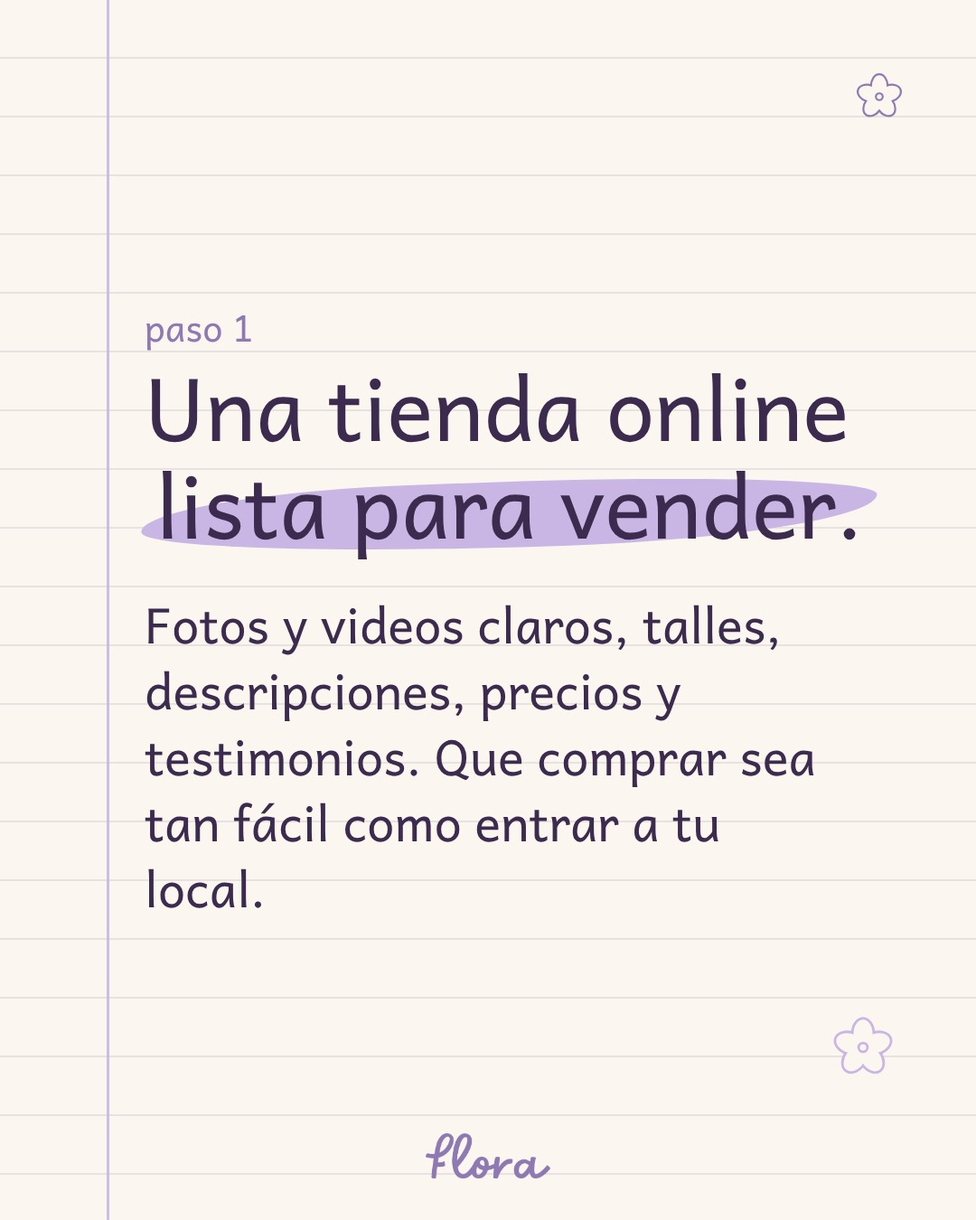
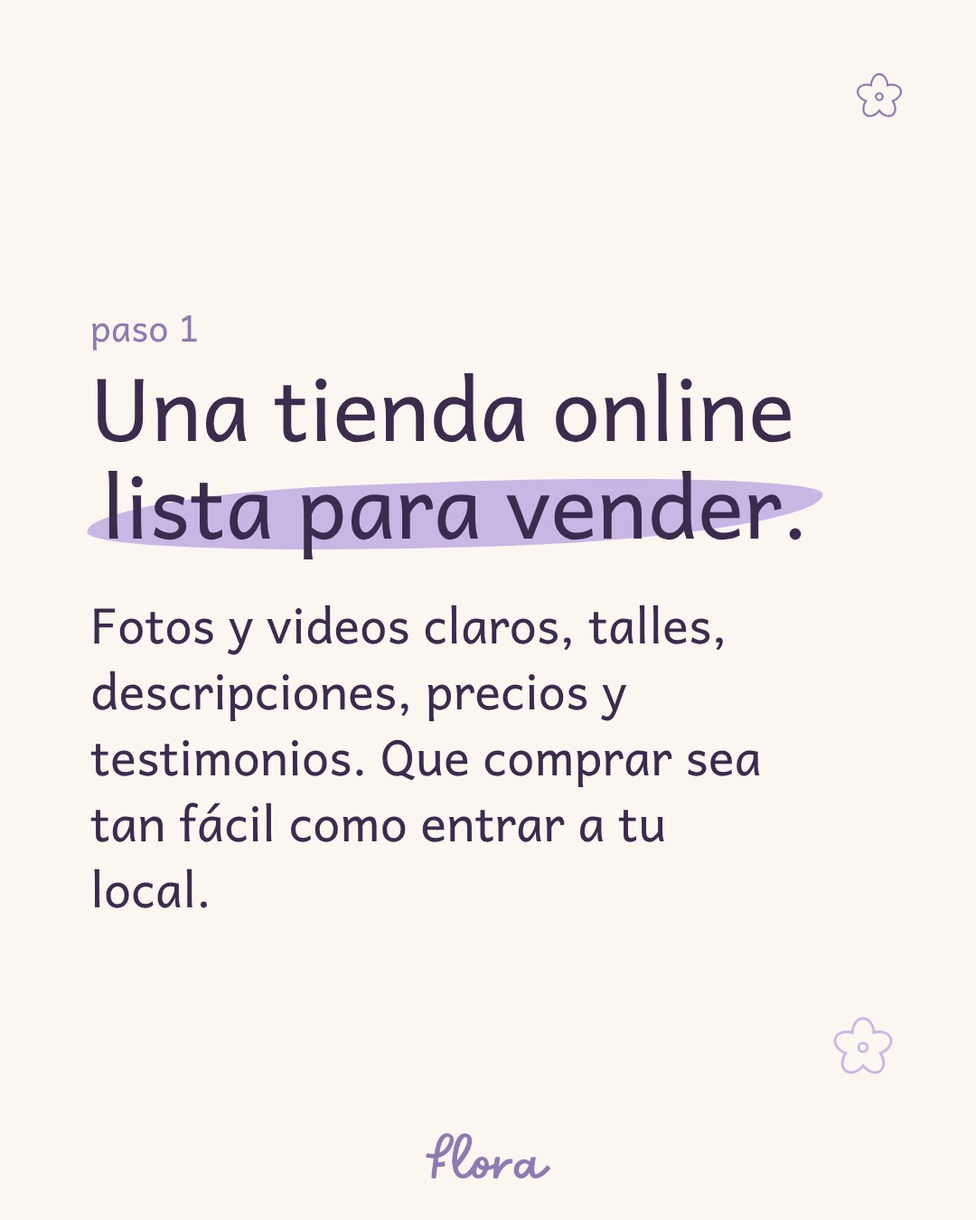
Carrusel expandir: fondo liso y placa 7 actualizada
Claude-Session: https://claude.ai/code/session_011cR66XdfPcXMXiUSVAJZ7n

Changed region(s): [[0.0917, 0.4978, 0.825, 0.7467], [0.0917, 0.2489, 0.8861, 0.4667]]

diff --git a/contenido/c03-expandir/slide-7.html b/contenido/c03-expandir/slide-7.html
@@ -1,9 +1,9 @@
-<!doctype html><html><head><meta charset="utf-8"><link href="https://fonts.googleapis.com/css2?family=Andika:wght@400;700&display=swap" rel="stylesheet"><style>*{margin:0;padding:0;box-sizing:border-box}body{width:1080px;height:1350px;overflow:hidden;background-color:#FBF7F0;background-image:linear-gradient(90deg,transparent 118px,rgba(201,182,228,.9) 118px,rgba(201,182,228,.9) 121px,transparent 121px),repeating-linear-gradient(180deg,transparent 0 63px,rgba(61,43,79,.10) 63px 65px);font-family:'Andika';color:#3D2B4F}
-.s{width:1080px;height:1350px;padding:100px 80px 46px 160px;display:flex;flex-direction:column;position:relative}
+<!doctype html><html><head><meta charset="utf-8"><link href="https://fonts.googleapis.com/css2?family=Andika:wght@400;700&display=swap" rel="stylesheet"><style>*{margin:0;padding:0;box-sizing:border-box}body{width:1080px;height:1350px;overflow:hidden;background:#FBF7F0;font-family:'Andika';color:#3D2B4F}
+.s{width:1080px;height:1350px;padding:100px 80px 46px 100px;display:flex;flex-direction:column;position:relative}
 .mk{position:relative;display:inline-block;padding:0 12px;z-index:0}
 .mk:before{content:"";position:absolute;left:-4px;right:-4px;top:28%;bottom:4%;background:#C9B6E4;border-radius:40% 55% 45% 60%/60% 40% 65% 45%;transform:rotate(var(--r));z-index:-1}
 h1{font-weight:400;line-height:1.12} p{font-size:54px;line-height:1.35}
 .k{font-size:40px;color:#8F79B3}
 .av{position:absolute;right:40px;bottom:120px;object-fit:contain;object-position:50% 100%}
-.foot{margin-top:auto;display:flex;justify-content:center;margin-left:-80px}.foot img{height:50px}
-.f{position:absolute;right:80px;top:80px}</style></head><body><div class="s"><div class="f"><svg width="54" height="54" viewBox="0 0 100 100" style="overflow:visible"><g fill="none" stroke="#8F79B3" stroke-width="8"><ellipse cx="50" cy="28" rx="15" ry="22" transform="rotate(0 50 50)"/><ellipse cx="50" cy="28" rx="15" ry="22" transform="rotate(72 50 50)"/><ellipse cx="50" cy="28" rx="15" ry="22" transform="rotate(144 50 50)"/><ellipse cx="50" cy="28" rx="15" ry="22" transform="rotate(216 50 50)"/><ellipse cx="50" cy="28" rx="15" ry="22" transform="rotate(288 50 50)"/></g><g fill="#FBF7F0"><ellipse cx="50" cy="28" rx="15" ry="22" transform="rotate(0 50 50)"/><ellipse cx="50" cy="28" rx="15" ry="22" transform="rotate(72 50 50)"/><ellipse cx="50" cy="28" rx="15" ry="22" transform="rotate(144 50 50)"/><ellipse cx="50" cy="28" rx="15" ry="22" transform="rotate(216 50 50)"/><ellipse cx="50" cy="28" rx="15" ry="22" transform="rotate(288 50 50)"/></g><circle cx="50" cy="50" r="7" fill="none" stroke="#8F79B3" stroke-width="4"/></svg></div><h1 style="font-size:84px;margin-top:30px;max-width:820px">Un local de deportes hizo esto y pasó de</h1><h1 style="font-size:120px;margin-top:20px">3.000 → <span class="mk" style="--r:-3deg">13.000 USD</span></h1><p style="font-size:62px;margin-top:20px">en un mes.</p><img class="av" src="file:///tmp/claude-0/-home-user-florwilhjelm-github-io/5e4f6baa-32bb-5f35-af43-3504e6ba9e43/scratchpad/avatar-dl/avatar-contenta.png" style="width:340px;height:380px"><div class="foot"><img src="flora-palabra-lila.png"></div></div></body></html>
+.foot{margin-top:auto;display:flex;justify-content:center;margin-left:-20px}.foot img{height:50px}
+.f{position:absolute;right:80px;top:80px}</style></head><body><div class="s"><div class="f"><svg width="54" height="54" viewBox="0 0 100 100" style="overflow:visible"><g fill="none" stroke="#8F79B3" stroke-width="8"><ellipse cx="50" cy="28" rx="15" ry="22" transform="rotate(0 50 50)"/><ellipse cx="50" cy="28" rx="15" ry="22" transform="rotate(72 50 50)"/><ellipse cx="50" cy="28" rx="15" ry="22" transform="rotate(144 50 50)"/><ellipse cx="50" cy="28" rx="15" ry="22" transform="rotate(216 50 50)"/><ellipse cx="50" cy="28" rx="15" ry="22" transform="rotate(288 50 50)"/></g><g fill="#FBF7F0"><ellipse cx="50" cy="28" rx="15" ry="22" transform="rotate(0 50 50)"/><ellipse cx="50" cy="28" rx="15" ry="22" transform="rotate(72 50 50)"/><ellipse cx="50" cy="28" rx="15" ry="22" transform="rotate(144 50 50)"/><ellipse cx="50" cy="28" rx="15" ry="22" transform="rotate(216 50 50)"/><ellipse cx="50" cy="28" rx="15" ry="22" transform="rotate(288 50 50)"/></g><circle cx="50" cy="50" r="7" fill="none" stroke="#8F79B3" stroke-width="4"/></svg></div><h1 style="font-size:80px;margin-top:30px;max-width:860px">Un local de deportes trabajó todo esto conmigo y pasó de facturar</h1><h1 style="font-size:116px;margin-top:24px">3.000 → <span class="mk" style="--r:-3deg">13.000 USD</span></h1><p style="font-size:62px;margin-top:20px">en un mes.</p><img class="av" src="file:///tmp/claude-0/-home-user-florwilhjelm-github-io/5e4f6baa-32bb-5f35-af43-3504e6ba9e43/scratchpad/avatar-dl/avatar-contenta.png" style="width:340px;height:380px"><div class="foot"><img src="flora-palabra-lila.png"></div></div></body></html>

diff --git a/contenido/c03-expandir/slide-5.html b/contenido/c03-expandir/slide-5.html
@@ -1,9 +1,9 @@
-<!doctype html><html><head><meta charset="utf-8"><link href="https://fonts.googleapis.com/css2?family=Andika:wght@400;700&display=swap" rel="stylesheet"><style>*{margin:0;padding:0;box-sizing:border-box}body{width:1080px;height:1350px;overflow:hidden;background-color:#FBF7F0;background-image:linear-gradient(90deg,transparent 118px,rgba(201,182,228,.9) 118px,rgba(201,182,228,.9) 121px,transparent 121px),repeating-linear-gradient(180deg,transparent 0 63px,rgba(61,43,79,.10) 63px 65px);font-family:'Andika';color:#3D2B4F}
-.s{width:1080px;height:1350px;padding:100px 80px 46px 160px;display:flex;flex-direction:column;position:relative}
+<!doctype html><html><head><meta charset="utf-8"><link href="https://fonts.googleapis.com/css2?family=Andika:wght@400;700&display=swap" rel="stylesheet"><style>*{margin:0;padding:0;box-sizing:border-box}body{width:1080px;height:1350px;overflow:hidden;background:#FBF7F0;font-family:'Andika';color:#3D2B4F}
+.s{width:1080px;height:1350px;padding:100px 80px 46px 100px;display:flex;flex-direction:column;position:relative}
 .mk{position:relative;display:inline-block;padding:0 12px;z-index:0}
 .mk:before{content:"";position:absolute;left:-4px;right:-4px;top:28%;bottom:4%;background:#C9B6E4;border-radius:40% 55% 45% 60%/60% 40% 65% 45%;transform:rotate(var(--r));z-index:-1}
 h1{font-weight:400;line-height:1.12} p{font-size:54px;line-height:1.35}
 .k{font-size:40px;color:#8F79B3}
 .av{position:absolute;right:40px;bottom:120px;object-fit:contain;object-position:50% 100%}
-.foot{margin-top:auto;display:flex;justify-content:center;margin-left:-80px}.foot img{height:50px}
+.foot{margin-top:auto;display:flex;justify-content:center;margin-left:-20px}.foot img{height:50px}
 .f{position:absolute;right:80px;top:80px}</style></head><body><div class="s"><div class="f"><svg width="54" height="54" viewBox="0 0 100 100" style="overflow:visible"><g fill="none" stroke="#8F79B3" stroke-width="8"><ellipse cx="50" cy="28" rx="15" ry="22" transform="rotate(0 50 50)"/><ellipse cx="50" cy="28" rx="15" ry="22" transform="rotate(72 50 50)"/><ellipse cx="50" cy="28" rx="15" ry="22" transform="rotate(144 50 50)"/><ellipse cx="50" cy="28" rx="15" ry="22" transform="rotate(216 50 50)"/><ellipse cx="50" cy="28" rx="15" ry="22" transform="rotate(288 50 50)"/></g><g fill="#FBF7F0"><ellipse cx="50" cy="28" rx="15" ry="22" transform="rotate(0 50 50)"/><ellipse cx="50" cy="28" rx="15" ry="22" transform="rotate(72 50 50)"/><ellipse cx="50" cy="28" rx="15" ry="22" transform="rotate(144 50 50)"/><ellipse cx="50" cy="28" rx="15" ry="22" transform="rotate(216 50 50)"/><ellipse cx="50" cy="28" rx="15" ry="22" transform="rotate(288 50 50)"/></g><circle cx="50" cy="50" r="7" fill="none" stroke="#8F79B3" stroke-width="4"/></svg></div><div style="margin-top:auto"><p class="k">paso 2</p><h1 style="font-size:92px;margin-top:6px">Una estrategia de contenido <span class="mk" style="--r:-2deg">para anuncios.</span></h1><p style="margin-top:44px;max-width:800px">No alcanza con “poner plata en publicidad”. Necesitás contenido pensado para que tu cliente ideal, esté donde esté, se detenga, te conozca y te compre.</p></div><div style="position:absolute;right:90px;bottom:150px"><svg width="70" height="70" viewBox="0 0 100 100" style="overflow:visible"><g fill="none" stroke="#C9B6E4" stroke-width="8"><ellipse cx="50" cy="28" rx="15" ry="22" transform="rotate(0 50 50)"/><ellipse cx="50" cy="28" rx="15" ry="22" transform="rotate(72 50 50)"/><ellipse cx="50" cy="28" rx="15" ry="22" transform="rotate(144 50 50)"/><ellipse cx="50" cy="28" rx="15" ry="22" transform="rotate(216 50 50)"/><ellipse cx="50" cy="28" rx="15" ry="22" transform="rotate(288 50 50)"/></g><g fill="#FBF7F0"><ellipse cx="50" cy="28" rx="15" ry="22" transform="rotate(0 50 50)"/><ellipse cx="50" cy="28" rx="15" ry="22" transform="rotate(72 50 50)"/><ellipse cx="50" cy="28" rx="15" ry="22" transform="rotate(144 50 50)"/><ellipse cx="50" cy="28" rx="15" ry="22" transform="rotate(216 50 50)"/><ellipse cx="50" cy="28" rx="15" ry="22" transform="rotate(288 50 50)"/></g><circle cx="50" cy="50" r="7" fill="none" stroke="#C9B6E4" stroke-width="4"/></svg></div><div class="foot"><img src="flora-palabra-lila.png"></div></div></body></html>

diff --git a/contenido/c03-expandir/slide-6.html b/contenido/c03-expandir/slide-6.html
@@ -1,9 +1,9 @@
-<!doctype html><html><head><meta charset="utf-8"><link href="https://fonts.googleapis.com/css2?family=Andika:wght@400;700&display=swap" rel="stylesheet"><style>*{margin:0;padding:0;box-sizing:border-box}body{width:1080px;height:1350px;overflow:hidden;background-color:#FBF7F0;background-image:linear-gradient(90deg,transparent 118px,rgba(201,182,228,.9) 118px,rgba(201,182,228,.9) 121px,transparent 121px),repeating-linear-gradient(180deg,transparent 0 63px,rgba(61,43,79,.10) 63px 65px);font-family:'Andika';color:#3D2B4F}
-.s{width:1080px;height:1350px;padding:100px 80px 46px 160px;display:flex;flex-direction:column;position:relative}
+<!doctype html><html><head><meta charset="utf-8"><link href="https://fonts.googleapis.com/css2?family=Andika:wght@400;700&display=swap" rel="stylesheet"><style>*{margin:0;padding:0;box-sizing:border-box}body{width:1080px;height:1350px;overflow:hidden;background:#FBF7F0;font-family:'Andika';color:#3D2B4F}
+.s{width:1080px;height:1350px;padding:100px 80px 46px 100px;display:flex;flex-direction:column;position:relative}
 .mk{position:relative;display:inline-block;padding:0 12px;z-index:0}
 .mk:before{content:"";position:absolute;left:-4px;right:-4px;top:28%;bottom:4%;background:#C9B6E4;border-radius:40% 55% 45% 60%/60% 40% 65% 45%;transform:rotate(var(--r));z-index:-1}
 h1{font-weight:400;line-height:1.12} p{font-size:54px;line-height:1.35}
 .k{font-size:40px;color:#8F79B3}
 .av{position:absolute;right:40px;bottom:120px;object-fit:contain;object-position:50% 100%}
-.foot{margin-top:auto;display:flex;justify-content:center;margin-left:-80px}.foot img{height:50px}
+.foot{margin-top:auto;display:flex;justify-content:center;margin-left:-20px}.foot img{height:50px}
 .f{position:absolute;right:80px;top:80px}</style></head><body><div class="s"><div class="f"><svg width="54" height="54" viewBox="0 0 100 100" style="overflow:visible"><g fill="none" stroke="#8F79B3" stroke-width="8"><ellipse cx="50" cy="28" rx="15" ry="22" transform="rotate(0 50 50)"/><ellipse cx="50" cy="28" rx="15" ry="22" transform="rotate(72 50 50)"/><ellipse cx="50" cy="28" rx="15" ry="22" transform="rotate(144 50 50)"/><ellipse cx="50" cy="28" rx="15" ry="22" transform="rotate(216 50 50)"/><ellipse cx="50" cy="28" rx="15" ry="22" transform="rotate(288 50 50)"/></g><g fill="#FBF7F0"><ellipse cx="50" cy="28" rx="15" ry="22" transform="rotate(0 50 50)"/><ellipse cx="50" cy="28" rx="15" ry="22" transform="rotate(72 50 50)"/><ellipse cx="50" cy="28" rx="15" ry="22" transform="rotate(144 50 50)"/><ellipse cx="50" cy="28" rx="15" ry="22" transform="rotate(216 50 50)"/><ellipse cx="50" cy="28" rx="15" ry="22" transform="rotate(288 50 50)"/></g><circle cx="50" cy="50" r="7" fill="none" stroke="#8F79B3" stroke-width="4"/></svg></div><div style="margin-top:auto"><p class="k">paso 3</p><h1 style="font-size:96px;margin-top:6px">Contenido real <span class="mk" style="--r:-2deg">de tu negocio.</span></h1><p style="margin-top:44px;max-width:800px">Tu local, tus productos y tu historia. La trayectoria que te hizo conocido en tu ciudad es lo que va a hacer que te elijan en todo el país.</p></div><div style="position:absolute;right:90px;bottom:150px"><svg width="70" height="70" viewBox="0 0 100 100" style="overflow:visible"><g fill="none" stroke="#C9B6E4" stroke-width="8"><ellipse cx="50" cy="28" rx="15" ry="22" transform="rotate(0 50 50)"/><ellipse cx="50" cy="28" rx="15" ry="22" transform="rotate(72 50 50)"/><ellipse cx="50" cy="28" rx="15" ry="22" transform="rotate(144 50 50)"/><ellipse cx="50" cy="28" rx="15" ry="22" transform="rotate(216 50 50)"/><ellipse cx="50" cy="28" rx="15" ry="22" transform="rotate(288 50 50)"/></g><g fill="#FBF7F0"><ellipse cx="50" cy="28" rx="15" ry="22" transform="rotate(0 50 50)"/><ellipse cx="50" cy="28" rx="15" ry="22" transform="rotate(72 50 50)"/><ellipse cx="50" cy="28" rx="15" ry="22" transform="rotate(144 50 50)"/><ellipse cx="50" cy="28" rx="15" ry="22" transform="rotate(216 50 50)"/><ellipse cx="50" cy="28" rx="15" ry="22" transform="rotate(288 50 50)"/></g><circle cx="50" cy="50" r="7" fill="none" stroke="#C9B6E4" stroke-width="4"/></svg></div><div class="foot"><img src="flora-palabra-lila.png"></div></div></body></html>

diff --git a/contenido/c03-expandir/slide-4.html b/contenido/c03-expandir/slide-4.html
@@ -1,9 +1,9 @@
-<!doctype html><html><head><meta charset="utf-8"><link href="https://fonts.googleapis.com/css2?family=Andika:wght@400;700&display=swap" rel="stylesheet"><style>*{margin:0;padding:0;box-sizing:border-box}body{width:1080px;height:1350px;overflow:hidden;background-color:#FBF7F0;background-image:linear-gradient(90deg,transparent 118px,rgba(201,182,228,.9) 118px,rgba(201,182,228,.9) 121px,transparent 121px),repeating-linear-gradient(180deg,transparent 0 63px,rgba(61,43,79,.10) 63px 65px);font-family:'Andika';color:#3D2B4F}
-.s{width:1080px;height:1350px;padding:100px 80px 46px 160px;display:flex;flex-direction:column;position:relative}
+<!doctype html><html><head><meta charset="utf-8"><link href="https://fonts.googleapis.com/css2?family=Andika:wght@400;700&display=swap" rel="stylesheet"><style>*{margin:0;padding:0;box-sizing:border-box}body{width:1080px;height:1350px;overflow:hidden;background:#FBF7F0;font-family:'Andika';color:#3D2B4F}
+.s{width:1080px;height:1350px;padding:100px 80px 46px 100px;display:flex;flex-direction:column;position:relative}
 .mk{position:relative;display:inline-block;padding:0 12px;z-index:0}
 .mk:before{content:"";position:absolute;left:-4px;right:-4px;top:28%;bottom:4%;background:#C9B6E4;border-radius:40% 55% 45% 60%/60% 40% 65% 45%;transform:rotate(var(--r));z-index:-1}
 h1{font-weight:400;line-height:1.12} p{font-size:54px;line-height:1.35}
 .k{font-size:40px;color:#8F79B3}
 .av{position:absolute;right:40px;bottom:120px;object-fit:contain;object-position:50% 100%}
-.foot{margin-top:auto;display:flex;justify-content:center;margin-left:-80px}.foot img{height:50px}
+.foot{margin-top:auto;display:flex;justify-content:center;margin-left:-20px}.foot img{height:50px}
 .f{position:absolute;right:80px;top:80px}</style></head><body><div class="s"><div class="f"><svg width="54" height="54" viewBox="0 0 100 100" style="overflow:visible"><g fill="none" stroke="#8F79B3" stroke-width="8"><ellipse cx="50" cy="28" rx="15" ry="22" transform="rotate(0 50 50)"/><ellipse cx="50" cy="28" rx="15" ry="22" transform="rotate(72 50 50)"/><ellipse cx="50" cy="28" rx="15" ry="22" transform="rotate(144 50 50)"/><ellipse cx="50" cy="28" rx="15" ry="22" transform="rotate(216 50 50)"/><ellipse cx="50" cy="28" rx="15" ry="22" transform="rotate(288 50 50)"/></g><g fill="#FBF7F0"><ellipse cx="50" cy="28" rx="15" ry="22" transform="rotate(0 50 50)"/><ellipse cx="50" cy="28" rx="15" ry="22" transform="rotate(72 50 50)"/><ellipse cx="50" cy="28" rx="15" ry="22" transform="rotate(144 50 50)"/><ellipse cx="50" cy="28" rx="15" ry="22" transform="rotate(216 50 50)"/><ellipse cx="50" cy="28" rx="15" ry="22" transform="rotate(288 50 50)"/></g><circle cx="50" cy="50" r="7" fill="none" stroke="#8F79B3" stroke-width="4"/></svg></div><div style="margin-top:auto"><p class="k">paso 1</p><h1 style="font-size:96px;margin-top:6px">Una tienda online <span class="mk" style="--r:-2deg">lista para vender.</span></h1><p style="margin-top:44px;max-width:780px">Fotos y videos claros, talles, descripciones, precios y testimonios. Que comprar sea tan fácil como entrar a tu local.</p></div><div style="position:absolute;right:90px;bottom:150px"><svg width="70" height="70" viewBox="0 0 100 100" style="overflow:visible"><g fill="none" stroke="#C9B6E4" stroke-width="8"><ellipse cx="50" cy="28" rx="15" ry="22" transform="rotate(0 50 50)"/><ellipse cx="50" cy="28" rx="15" ry="22" transform="rotate(72 50 50)"/><ellipse cx="50" cy="28" rx="15" ry="22" transform="rotate(144 50 50)"/><ellipse cx="50" cy="28" rx="15" ry="22" transform="rotate(216 50 50)"/><ellipse cx="50" cy="28" rx="15" ry="22" transform="rotate(288 50 50)"/></g><g fill="#FBF7F0"><ellipse cx="50" cy="28" rx="15" ry="22" transform="rotate(0 50 50)"/><ellipse cx="50" cy="28" rx="15" ry="22" transform="rotate(72 50 50)"/><ellipse cx="50" cy="28" rx="15" ry="22" transform="rotate(144 50 50)"/><ellipse cx="50" cy="28" rx="15" ry="22" transform="rotate(216 50 50)"/><ellipse cx="50" cy="28" rx="15" ry="22" transform="rotate(288 50 50)"/></g><circle cx="50" cy="50" r="7" fill="none" stroke="#C9B6E4" stroke-width="4"/></svg></div><div class="foot"><img src="flora-palabra-lila.png"></div></div></body></html>

diff --git a/contenido/c03-expandir/slide-1.html b/contenido/c03-expandir/slide-1.html
@@ -1,9 +1,9 @@
-<!doctype html><html><head><meta charset="utf-8"><link href="https://fonts.googleapis.com/css2?family=Andika:wght@400;700&display=swap" rel="stylesheet"><style>*{margin:0;padding:0;box-sizing:border-box}body{width:1080px;height:1350px;overflow:hidden;background-color:#FBF7F0;background-image:linear-gradient(90deg,transparent 118px,rgba(201,182,228,.9) 118px,rgba(201,182,228,.9) 121px,transparent 121px),repeating-linear-gradient(180deg,transparent 0 63px,rgba(61,43,79,.10) 63px 65px);font-family:'Andika';color:#3D2B4F}
-.s{width:1080px;height:1350px;padding:100px 80px 46px 160px;display:flex;flex-direction:column;position:relative}
+<!doctype html><html><head><meta charset="utf-8"><link href="https://fonts.googleapis.com/css2?family=Andika:wght@400;700&display=swap" rel="stylesheet"><style>*{margin:0;padding:0;box-sizing:border-box}body{width:1080px;height:1350px;overflow:hidden;background:#FBF7F0;font-family:'Andika';color:#3D2B4F}
+.s{width:1080px;height:1350px;padding:100px 80px 46px 100px;display:flex;flex-direction:column;position:relative}
 .mk{position:relative;display:inline-block;padding:0 12px;z-index:0}
 .mk:before{content:"";position:absolute;left:-4px;right:-4px;top:28%;bottom:4%;background:#C9B6E4;border-radius:40% 55% 45% 60%/60% 40% 65% 45%;transform:rotate(var(--r));z-index:-1}
 h1{font-weight:400;line-height:1.12} p{font-size:54px;line-height:1.35}
 .k{font-size:40px;color:#8F79B3}
 .av{position:absolute;right:40px;bottom:120px;object-fit:contain;object-position:50% 100%}
-.foot{margin-top:auto;display:flex;justify-content:center;margin-left:-80px}.foot img{height:50px}
+.foot{margin-top:auto;display:flex;justify-content:center;margin-left:-20px}.foot img{height:50px}
 .f{position:absolute;right:80px;top:80px}</style></head><body><div class="s"><div class="f"><svg width="54" height="54" viewBox="0 0 100 100" style="overflow:visible"><g fill="none" stroke="#8F79B3" stroke-width="8"><ellipse cx="50" cy="28" rx="15" ry="22" transform="rotate(0 50 50)"/><ellipse cx="50" cy="28" rx="15" ry="22" transform="rotate(72 50 50)"/><ellipse cx="50" cy="28" rx="15" ry="22" transform="rotate(144 50 50)"/><ellipse cx="50" cy="28" rx="15" ry="22" transform="rotate(216 50 50)"/><ellipse cx="50" cy="28" rx="15" ry="22" transform="rotate(288 50 50)"/></g><g fill="#FBF7F0"><ellipse cx="50" cy="28" rx="15" ry="22" transform="rotate(0 50 50)"/><ellipse cx="50" cy="28" rx="15" ry="22" transform="rotate(72 50 50)"/><ellipse cx="50" cy="28" rx="15" ry="22" transform="rotate(144 50 50)"/><ellipse cx="50" cy="28" rx="15" ry="22" transform="rotate(216 50 50)"/><ellipse cx="50" cy="28" rx="15" ry="22" transform="rotate(288 50 50)"/></g><circle cx="50" cy="50" r="7" fill="none" stroke="#8F79B3" stroke-width="4"/></svg></div><h1 style="font-size:112px;margin-top:30px">Tu local ya es conocido en tu ciudad.</h1><p style="font-size:62px;margin-top:46px;max-width:620px">Ahora te toca expandirte a <span class="mk" style="--r:-2deg">todo el país.</span></p><p class="k" style="margin-top:40px">te muestro cómo en 3 pasos →</p><img class="av" src="file:///tmp/claude-0/-home-user-florwilhjelm-github-io/5e4f6baa-32bb-5f35-af43-3504e6ba9e43/scratchpad/avatar-dl/avatar-pensativa.png" style="width:360px;height:430px"><div class="foot"><img src="flora-palabra-lila.png"></div></div></body></html>

diff --git a/contenido/c03-expandir/slide-3.html b/contenido/c03-expandir/slide-3.html
@@ -1,9 +1,9 @@
-<!doctype html><html><head><meta charset="utf-8"><link href="https://fonts.googleapis.com/css2?family=Andika:wght@400;700&display=swap" rel="stylesheet"><style>*{margin:0;padding:0;box-sizing:border-box}body{width:1080px;height:1350px;overflow:hidden;background-color:#FBF7F0;background-image:linear-gradient(90deg,transparent 118px,rgba(201,182,228,.9) 118px,rgba(201,182,228,.9) 121px,transparent 121px),repeating-linear-gradient(180deg,transparent 0 63px,rgba(61,43,79,.10) 63px 65px);font-family:'Andika';color:#3D2B4F}
-.s{width:1080px;height:1350px;padding:100px 80px 46px 160px;display:flex;flex-direction:column;position:relative}
+<!doctype html><html><head><meta charset="utf-8"><link href="https://fonts.googleapis.com/css2?family=Andika:wght@400;700&display=swap" rel="stylesheet"><style>*{margin:0;padding:0;box-sizing:border-box}body{width:1080px;height:1350px;overflow:hidden;background:#FBF7F0;font-family:'Andika';color:#3D2B4F}
+.s{width:1080px;height:1350px;padding:100px 80px 46px 100px;display:flex;flex-direction:column;position:relative}
 .mk{position:relative;display:inline-block;padding:0 12px;z-index:0}
 .mk:before{content:"";position:absolute;left:-4px;right:-4px;top:28%;bottom:4%;background:#C9B6E4;border-radius:40% 55% 45% 60%/60% 40% 65% 45%;transform:rotate(var(--r));z-index:-1}
 h1{font-weight:400;line-height:1.12} p{font-size:54px;line-height:1.35}
 .k{font-size:40px;color:#8F79B3}
 .av{position:absolute;right:40px;bottom:120px;object-fit:contain;object-position:50% 100%}
-.foot{margin-top:auto;display:flex;justify-content:center;margin-left:-80px}.foot img{height:50px}
+.foot{margin-top:auto;display:flex;justify-content:center;margin-left:-20px}.foot img{height:50px}
 .f{position:absolute;right:80px;top:80px}</style></head><body><div class="s"><div class="f"><svg width="54" height="54" viewBox="0 0 100 100" style="overflow:visible"><g fill="none" stroke="#8F79B3" stroke-width="8"><ellipse cx="50" cy="28" rx="15" ry="22" transform="rotate(0 50 50)"/><ellipse cx="50" cy="28" rx="15" ry="22" transform="rotate(72 50 50)"/><ellipse cx="50" cy="28" rx="15" ry="22" transform="rotate(144 50 50)"/><ellipse cx="50" cy="28" rx="15" ry="22" transform="rotate(216 50 50)"/><ellipse cx="50" cy="28" rx="15" ry="22" transform="rotate(288 50 50)"/></g><g fill="#FBF7F0"><ellipse cx="50" cy="28" rx="15" ry="22" transform="rotate(0 50 50)"/><ellipse cx="50" cy="28" rx="15" ry="22" transform="rotate(72 50 50)"/><ellipse cx="50" cy="28" rx="15" ry="22" transform="rotate(144 50 50)"/><ellipse cx="50" cy="28" rx="15" ry="22" transform="rotate(216 50 50)"/><ellipse cx="50" cy="28" rx="15" ry="22" transform="rotate(288 50 50)"/></g><circle cx="50" cy="50" r="7" fill="none" stroke="#8F79B3" stroke-width="4"/></svg></div><h1 style="font-size:90px;margin-top:30px">Lo más difícil ya lo tenés: <span class="mk" style="--r:-2deg">la confianza.</span></h1><p style="margin-top:44px;max-width:560px">Lo que falta no es un producto nuevo. Es que te encuentren y te puedan comprar desde cualquier lugar.</p><img class="av" src="file:///tmp/claude-0/-home-user-florwilhjelm-github-io/5e4f6baa-32bb-5f35-af43-3504e6ba9e43/scratchpad/avatar-dl/avatar-senalando.png" style="width:360px;height:410px"><div class="foot"><img src="flora-palabra-lila.png"></div></div></body></html>

diff --git a/contenido/c03-expandir/slide-2.html b/contenido/c03-expandir/slide-2.html
@@ -1,9 +1,9 @@
-<!doctype html><html><head><meta charset="utf-8"><link href="https://fonts.googleapis.com/css2?family=Andika:wght@400;700&display=swap" rel="stylesheet"><style>*{margin:0;padding:0;box-sizing:border-box}body{width:1080px;height:1350px;overflow:hidden;background-color:#FBF7F0;background-image:linear-gradient(90deg,transparent 118px,rgba(201,182,228,.9) 118px,rgba(201,182,228,.9) 121px,transparent 121px),repeating-linear-gradient(180deg,transparent 0 63px,rgba(61,43,79,.10) 63px 65px);font-family:'Andika';color:#3D2B4F}
-.s{width:1080px;height:1350px;padding:100px 80px 46px 160px;display:flex;flex-direction:column;position:relative}
+<!doctype html><html><head><meta charset="utf-8"><link href="https://fonts.googleapis.com/css2?family=Andika:wght@400;700&display=swap" rel="stylesheet"><style>*{margin:0;padding:0;box-sizing:border-box}body{width:1080px;height:1350px;overflow:hidden;background:#FBF7F0;font-family:'Andika';color:#3D2B4F}
+.s{width:1080px;height:1350px;padding:100px 80px 46px 100px;display:flex;flex-direction:column;position:relative}
 .mk{position:relative;display:inline-block;padding:0 12px;z-index:0}
 .mk:before{content:"";position:absolute;left:-4px;right:-4px;top:28%;bottom:4%;background:#C9B6E4;border-radius:40% 55% 45% 60%/60% 40% 65% 45%;transform:rotate(var(--r));z-index:-1}
 h1{font-weight:400;line-height:1.12} p{font-size:54px;line-height:1.35}
 .k{font-size:40px;color:#8F79B3}
 .av{position:absolute;right:40px;bottom:120px;object-fit:contain;object-position:50% 100%}
-.foot{margin-top:auto;display:flex;justify-content:center;margin-left:-80px}.foot img{height:50px}
+.foot{margin-top:auto;display:flex;justify-content:center;margin-left:-20px}.foot img{height:50px}
 .f{position:absolute;right:80px;top:80px}</style></head><body><div class="s"><div class="f"><svg width="54" height="54" viewBox="0 0 100 100" style="overflow:visible"><g fill="none" stroke="#8F79B3" stroke-width="8"><ellipse cx="50" cy="28" rx="15" ry="22" transform="rotate(0 50 50)"/><ellipse cx="50" cy="28" rx="15" ry="22" transform="rotate(72 50 50)"/><ellipse cx="50" cy="28" rx="15" ry="22" transform="rotate(144 50 50)"/><ellipse cx="50" cy="28" rx="15" ry="22" transform="rotate(216 50 50)"/><ellipse cx="50" cy="28" rx="15" ry="22" transform="rotate(288 50 50)"/></g><g fill="#FBF7F0"><ellipse cx="50" cy="28" rx="15" ry="22" transform="rotate(0 50 50)"/><ellipse cx="50" cy="28" rx="15" ry="22" transform="rotate(72 50 50)"/><ellipse cx="50" cy="28" rx="15" ry="22" transform="rotate(144 50 50)"/><ellipse cx="50" cy="28" rx="15" ry="22" transform="rotate(216 50 50)"/><ellipse cx="50" cy="28" rx="15" ry="22" transform="rotate(288 50 50)"/></g><circle cx="50" cy="50" r="7" fill="none" stroke="#8F79B3" stroke-width="4"/></svg></div><h1 style="font-size:84px;margin-top:30px;max-width:840px">Tenés años en el rubro, clientes fieles y un producto que funciona.</h1><p style="font-size:62px;margin-top:50px;max-width:560px">Ahora te toca expandirte a <span class="mk" style="--r:-2deg">todo el país.</span></p><img class="av" src="file:///tmp/claude-0/-home-user-florwilhjelm-github-io/5e4f6baa-32bb-5f35-af43-3504e6ba9e43/scratchpad/avatar-dl/avatar-frustrada.png" style="width:360px;height:380px"><div class="foot"><img src="flora-palabra-lila.png"></div></div></body></html>

diff --git a/contenido/c03-expandir/slide-8.html b/contenido/c03-expandir/slide-8.html
@@ -1,9 +1,9 @@
-<!doctype html><html><head><meta charset="utf-8"><link href="https://fonts.googleapis.com/css2?family=Andika:wght@400;700&display=swap" rel="stylesheet"><style>*{margin:0;padding:0;box-sizing:border-box}body{width:1080px;height:1350px;overflow:hidden;background-color:#FBF7F0;background-image:linear-gradient(90deg,transparent 118px,rgba(201,182,228,.9) 118px,rgba(201,182,228,.9) 121px,transparent 121px),repeating-linear-gradient(180deg,transparent 0 63px,rgba(61,43,79,.10) 63px 65px);font-family:'Andika';color:#3D2B4F}
-.s{width:1080px;height:1350px;padding:100px 80px 46px 160px;display:flex;flex-direction:column;position:relative}
+<!doctype html><html><head><meta charset="utf-8"><link href="https://fonts.googleapis.com/css2?family=Andika:wght@400;700&display=swap" rel="stylesheet"><style>*{margin:0;padding:0;box-sizing:border-box}body{width:1080px;height:1350px;overflow:hidden;background:#FBF7F0;font-family:'Andika';color:#3D2B4F}
+.s{width:1080px;height:1350px;padding:100px 80px 46px 100px;display:flex;flex-direction:column;position:relative}
 .mk{position:relative;display:inline-block;padding:0 12px;z-index:0}
 .mk:before{content:"";position:absolute;left:-4px;right:-4px;top:28%;bottom:4%;background:#C9B6E4;border-radius:40% 55% 45% 60%/60% 40% 65% 45%;transform:rotate(var(--r));z-index:-1}
 h1{font-weight:400;line-height:1.12} p{font-size:54px;line-height:1.35}
 .k{font-size:40px;color:#8F79B3}
 .av{position:absolute;right:40px;bottom:120px;object-fit:contain;object-position:50% 100%}
-.foot{margin-top:auto;display:flex;justify-content:center;margin-left:-80px}.foot img{height:50px}
+.foot{margin-top:auto;display:flex;justify-content:center;margin-left:-20px}.foot img{height:50px}
 .f{position:absolute;right:80px;top:80px}</style></head><body><div class="s"><div class="f"><svg width="54" height="54" viewBox="0 0 100 100" style="overflow:visible"><g fill="none" stroke="#8F79B3" stroke-width="8"><ellipse cx="50" cy="28" rx="15" ry="22" transform="rotate(0 50 50)"/><ellipse cx="50" cy="28" rx="15" ry="22" transform="rotate(72 50 50)"/><ellipse cx="50" cy="28" rx="15" ry="22" transform="rotate(144 50 50)"/><ellipse cx="50" cy="28" rx="15" ry="22" transform="rotate(216 50 50)"/><ellipse cx="50" cy="28" rx="15" ry="22" transform="rotate(288 50 50)"/></g><g fill="#FBF7F0"><ellipse cx="50" cy="28" rx="15" ry="22" transform="rotate(0 50 50)"/><ellipse cx="50" cy="28" rx="15" ry="22" transform="rotate(72 50 50)"/><ellipse cx="50" cy="28" rx="15" ry="22" transform="rotate(144 50 50)"/><ellipse cx="50" cy="28" rx="15" ry="22" transform="rotate(216 50 50)"/><ellipse cx="50" cy="28" rx="15" ry="22" transform="rotate(288 50 50)"/></g><circle cx="50" cy="50" r="7" fill="none" stroke="#8F79B3" stroke-width="4"/></svg></div><h1 style="font-size:100px;margin-top:30px">¿Querés ver cómo sería <span class="mk" style="--r:-2deg">con tu negocio?</span></h1><p style="margin-top:50px;max-width:560px">Escribime <b>EXPANDIR</b> por MD y lo vemos juntos 🌷</p><img class="av" src="file:///tmp/claude-0/-home-user-florwilhjelm-github-io/5e4f6baa-32bb-5f35-af43-3504e6ba9e43/scratchpad/avatar-dl/avatar-contenta.png" style="width:400px;height:450px"><div class="foot"><img src="flora-palabra-lila.png"></div></div></body></html>

diff --git a/contenido/c03-expandir/build.py b/contenido/c03-expandir/build.py
@@ -1,19 +1,19 @@
 import sys
 AV=sys.argv[1]  # carpeta de avatares
 T='#3D2B4F';L='#8F79B3';LI='#C9B6E4';C='#FBF7F0';B='#F1E8DA'
-paper=f"background-color:{C};background-image:linear-gradient(90deg,transparent 118px,rgba(201,182,228,.9) 118px,rgba(201,182,228,.9) 121px,transparent 121px),repeating-linear-gradient(180deg,transparent 0 63px,rgba(61,43,79,.10) 63px 65px);"
+paper=f"background:{C};"
 def flor(size,color=L,sw=4):
     p=''.join(f'<ellipse cx="50" cy="28" rx="15" ry="22" transform="rotate({i*72} 50 50)"/>' for i in range(5))
     return f'<svg width="{size}" height="{size}" viewBox="0 0 100 100" style="overflow:visible"><g fill="none" stroke="{color}" stroke-width="{sw*2}">{p}</g><g fill="{C}">{p}</g><circle cx="50" cy="50" r="7" fill="none" stroke="{color}" stroke-width="{sw}"/></svg>'
 def mk(t,r=-2): return f'<span class="mk" style="--r:{r}deg">{t}</span>'
 css=f'''*{{margin:0;padding:0;box-sizing:border-box}}body{{width:1080px;height:1350px;overflow:hidden;{paper}font-family:'Andika';color:{T}}}
-.s{{width:1080px;height:1350px;padding:100px 80px 46px 160px;display:flex;flex-direction:column;position:relative}}
+.s{{width:1080px;height:1350px;padding:100px 80px 46px 100px;display:flex;flex-direction:column;position:relative}}
 .mk{{position:relative;display:inline-block;padding:0 12px;z-index:0}}
 .mk:before{{content:"";position:absolute;left:-4px;right:-4px;top:28%;bottom:4%;background:{LI};border-radius:40% 55% 45% 60%/60% 40% 65% 45%;transform:rotate(var(--r));z-index:-1}}
 h1{{font-weight:400;line-height:1.12}} p{{font-size:54px;line-height:1.35}}
 .k{{font-size:40px;color:{L}}}
 .av{{position:absolute;right:40px;bottom:120px;object-fit:contain;object-position:50% 100%}}
-.foot{{margin-top:auto;display:flex;justify-content:center;margin-left:-80px}}.foot img{{height:50px}}
+.foot{{margin-top:auto;display:flex;justify-content:center;margin-left:-20px}}.foot img{{height:50px}}
 .f{{position:absolute;right:80px;top:80px}}'''
 def page(body,av=None,avw=420,avh=440,deco=True):
     a=f'<img class="av" src="{AV}/{av}" style="width:{avw}px;height:{avh}px">' if av else ''
@@ -27,7 +27,7 @@ S=[
 (f'<p class="k">paso 1</p><h1 style="font-size:96px;margin-top:6px">Una tienda online {mk("lista para vender.")}</h1><p style="margin-top:44px;max-width:780px">Fotos y videos claros, talles, descripciones, precios y testimonios. Que comprar sea tan fácil como entrar a tu local.</p>',None,0,0),
 (f'<p class="k">paso 2</p><h1 style="font-size:92px;margin-top:6px">Una estrategia de contenido {mk("para anuncios.")}</h1><p style="margin-top:44px;max-width:800px">No alcanza con “poner plata en publicidad”. Necesitás contenido pensado para que tu cliente ideal, esté donde esté, se detenga, te conozca y te compre.</p>',None,0,0),
 (f'<p class="k">paso 3</p><h1 style="font-size:96px;margin-top:6px">Contenido real {mk("de tu negocio.")}</h1><p style="margin-top:44px;max-width:800px">Tu local, tus productos y tu historia. La trayectoria que te hizo conocido en tu ciudad es lo que va a hacer que te elijan en todo el país.</p>',None,0,0),
-(f'<h1 style="font-size:84px;margin-top:30px;max-width:820px">Un local de deportes hizo esto y pasó de</h1><h1 style="font-size:120px;margin-top:20px">3.000 → {mk("13.000 USD",-3)}</h1><p style="font-size:62px;margin-top:20px">en un mes.</p>','avatar-contenta.png',340,380),
+(f'<h1 style="font-size:80px;margin-top:30px;max-width:860px">Un local de deportes trabajó todo esto conmigo y pasó de facturar</h1><h1 style="font-size:116px;margin-top:24px">3.000 → {mk("13.000 USD",-3)}</h1><p style="font-size:62px;margin-top:20px">en un mes.</p>','avatar-contenta.png',340,380),
 (f'<h1 style="font-size:100px;margin-top:30px">¿Querés ver cómo sería {mk("con tu negocio?")}</h1><p style="margin-top:50px;max-width:560px">Escribime <b>EXPANDIR</b> por MD y lo vemos juntos 🌷</p>','avatar-contenta.png',400,450),
 ]
 for i,(body,av,w,h) in enumerate(S,1):

diff --git a/contenido/estilos/README-estilo.md b/contenido/estilos/README-estilo.md
@@ -1,7 +1,7 @@
 # Estilo de carruseles Flora (definitivo)
 
 - Tipografía: Andika (Google Fonts, libre para uso comercial).
-- Fondo: hoja de cuaderno crema (#FBF7F0) con renglones suaves y margen lila (#C9B6E4).
+- Fondo: beige liso (#FBF7F0), sin renglones.
 - Texto: ciruela (#3D2B4F). Detalles: lila (#8F79B3) y marcador lila detrás de palabras clave.
 - Jerarquía: el gancho para el público (ej. "Tu local ya es conocido en tu ciudad.") va grande; la bajada va más chica.
 - Decoración: florcita de línea (5 pétalos, sin relleno). Sin recuadros ni subrayados dobles.
